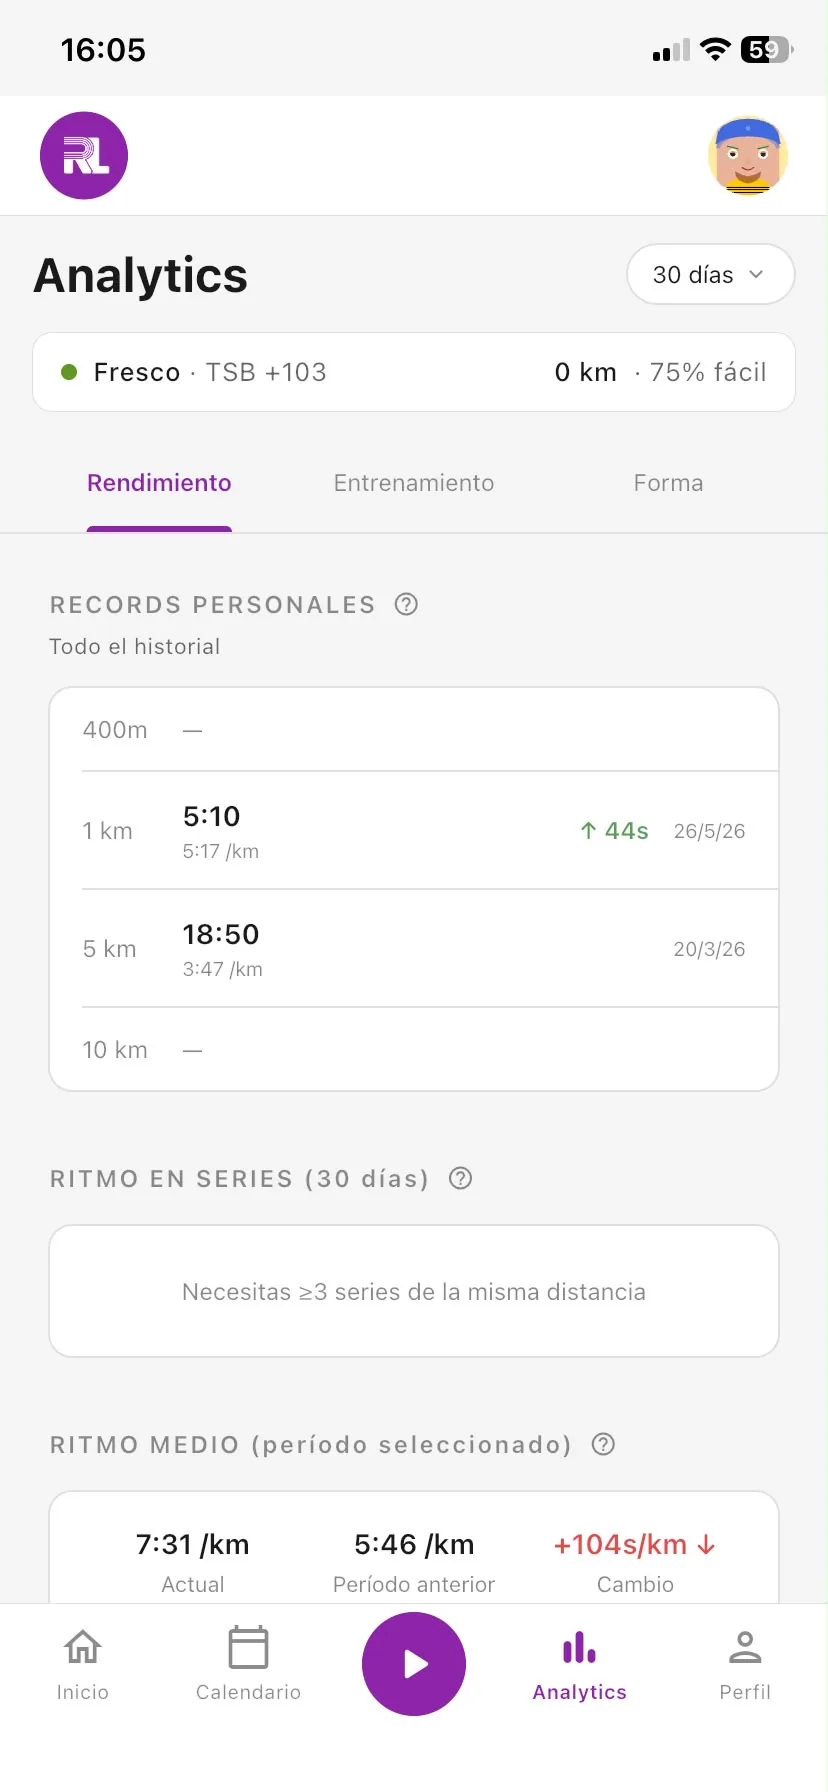
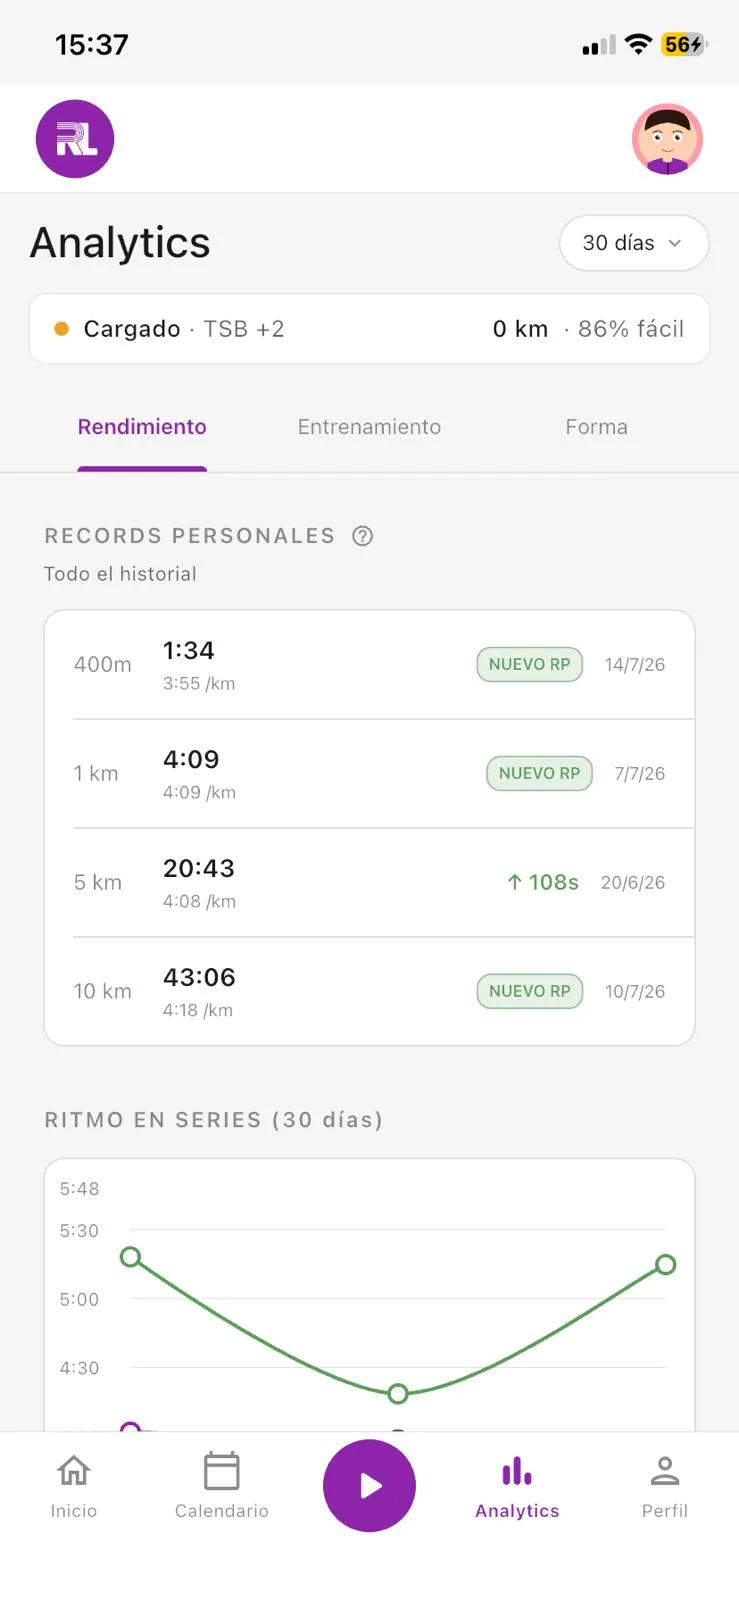
feat(web): capturas reales para creador de sesiones y ajustes con el coach
Sustituye los mockups dibujados de "Habla con tu coach" y "Creador de
sesiones" por capturas reales de la beta (panel "Ajustar plan con el
coach" con voz/texto, y "Crear con IA" con el selector de 5 tipos de
sesión). Añade calendario mensual, cuestionario semanal, filosofía del
coach y récords con marcas nuevas a la galería (10 capturas en total).
Reemplaza records.webp por una versión con datos más ricos.

Las 29 capturas subidas por el usuario se archivan sin optimizar en
design/app-screenshots-2026-07-20/ (fuera de hosting/, no se despliegan)
para reutilizar más adelante.

diff --git a/hosting/index.html b/hosting/index.html
@@ -330,7 +330,7 @@ section{padding:80px 0}
 .gallery-item .phone{max-width:236px;border-radius:36px;padding:8px}
 .gallery-item .phone img{border-radius:29px}
 @media(min-width:1100px){
-  .gallery-track{grid-auto-flow:row;grid-template-columns:repeat(6,1fr);overflow:visible;grid-auto-columns:unset}
+  .gallery-track{grid-auto-flow:row;grid-template-columns:repeat(auto-fit,minmax(190px,1fr));overflow:visible;grid-auto-columns:unset}
   .gallery-item .phone{max-width:100%}
 }
 
@@ -562,17 +562,10 @@ footer{background:var(--ink);color:#fff;padding:64px 0 40px}
         </ul>
       </div>
       <div class="feature-shot reveal">
-        <div class="prompt-mock">
-          <div class="pm-row pm-you">
-            <span class="pm-avatar">TÚ</span>
-            <span class="pm-bubble">Cámbiame el jueves, tengo trabajo hasta tarde</span>
-          </div>
-          <div class="pm-row pm-ai">
-            <span class="pm-avatar">RL</span>
-            <span class="pm-bubble">Hecho. Muevo tus series en cuesta a viernes y adelanto el descanso del sábado.</span>
-          </div>
+        <div class="phone">
+          <img src="/assets/screens/ajuste-coach.webp" alt="Panel «Ajustar plan con el coach» en el calendario de Running Laps, con campo de texto y micrófono para pedir un ajuste en lenguaje natural" width="739" height="1600" loading="lazy">
         </div>
-        <p class="phone-caption">Así se ve un ajuste real — sin capturas de por medio</p>
+        <p class="phone-caption">Captura real — ajustar el plan por texto o por voz</p>
       </div>
     </div>
   </div>
@@ -593,20 +586,10 @@ footer{background:var(--ink);color:#fff;padding:64px 0 40px}
         </ul>
       </div>
       <div class="feature-shot reveal">
-        <div class="type-chips">
-          <span class="chip">Continuo</span><span class="chip">Series</span><span class="chip">Fartlek</span><span class="chip">Cuestas</span><span class="chip">Competición</span>
+        <div class="phone">
+          <img src="/assets/screens/creador-ia.webp" alt="Editor de sesiones de Running Laps con el panel «Crear con IA» abierto — campo de texto y micrófono para dictar el entreno, y selector de tipo: Continuo, Series, Cuestas, Competición, Fartlek" width="739" height="1600" loading="lazy">
         </div>
-        <div class="prompt-mock">
-          <div class="pm-row pm-you">
-            <span class="pm-avatar">TÚ</span>
-            <span class="pm-bubble">5×1000 a ritmo de 10K, recuperación trote 90s</span>
-          </div>
-          <div class="pm-row pm-ai">
-            <span class="pm-avatar">RL</span>
-            <span class="pm-bubble">Sesión creada: calentamiento 15 min + 5×1000 en Z4 + vuelta a la calma.</span>
-          </div>
-        </div>
-        <p class="phone-caption">Así se ve un prompt real — sin capturas de por medio</p>
+        <p class="phone-caption">Captura real — editor de sesiones y generación por IA</p>
       </div>
     </div>
   </div>
@@ -717,7 +700,19 @@ footer{background:var(--ink);color:#fff;padding:64px 0 40px}
         <div class="phone"><img src="/assets/screens/zonas.webp" alt="Cinco zonas de frecuencia cardíaca personalizadas según FC máxima" width="828" height="1792" loading="lazy"></div>
       </div>
       <div class="gallery-item">
-        <div class="phone"><img src="/assets/screens/records.webp" alt="Récords personales de 400 m a 10 km con mejora de marca" width="828" height="1792" loading="lazy"></div>
+        <div class="phone"><img src="/assets/screens/records.webp" alt="Récords personales de 400 m a 10 km, con marcas nuevas señaladas" width="739" height="1600" loading="lazy"></div>
+      </div>
+      <div class="gallery-item">
+        <div class="phone"><img src="/assets/screens/cuestionario.webp" alt="Cuestionario semanal del coach: cómo te has sentido entrenando y calidad del sueño" width="739" height="1600" loading="lazy"></div>
+      </div>
+      <div class="gallery-item">
+        <div class="phone"><img src="/assets/screens/calendario-mensual.webp" alt="Calendario mensual con el volumen de cada semana y la leyenda de carga" width="739" height="1600" loading="lazy"></div>
+      </div>
+      <div class="gallery-item">
+        <div class="phone"><img src="/assets/screens/filosofia-coach.webp" alt="Pantalla «Cómo entrena tu coach»: base aeróbica primero, intensidad con criterio, fatiga y progresión sostenible" width="739" height="1600" loading="lazy"></div>
+      </div>
+      <div class="gallery-item">
+        <div class="phone"><img src="/assets/screens/pre-run.webp" alt="Pantalla antes de correr: correr libre, sensores de GPS y pulsómetro, alertas de ritmo" width="739" height="1600" loading="lazy"></div>
       </div>
     </div>
   </div>